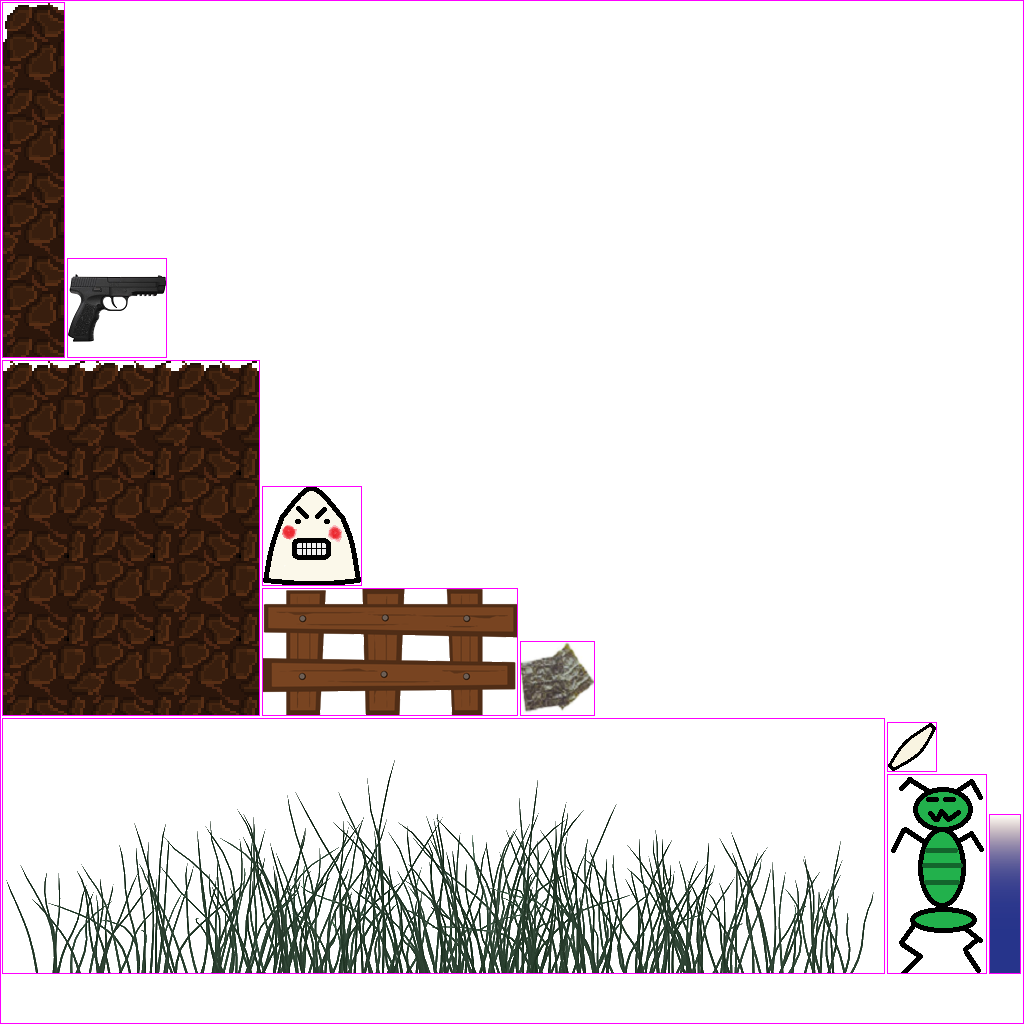
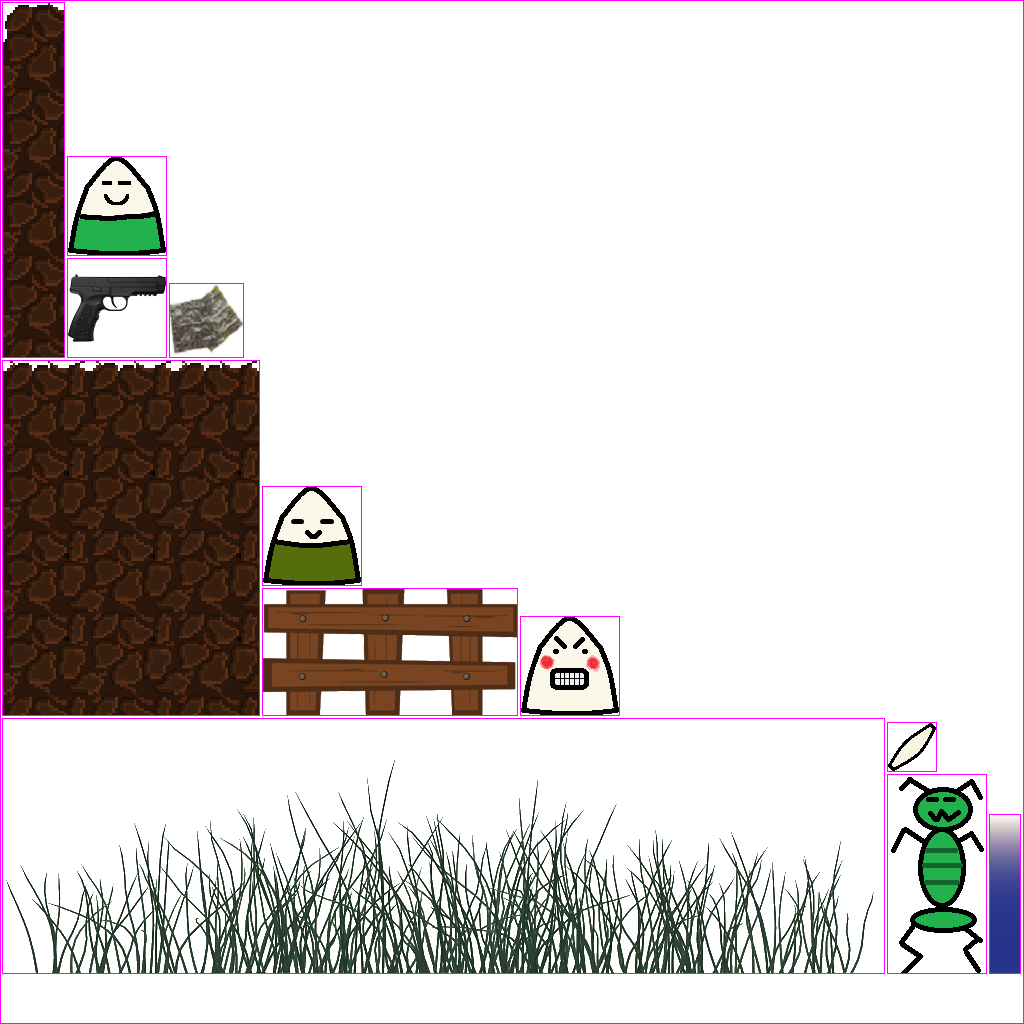
Added collection of guns, nori, grain on collision

diff --git a/core/src/com/packetpub/libgdx/rutter/game/WorldController.java b/core/src/com/packetpub/libgdx/rutter/game/WorldController.java
@@ -16,6 +16,9 @@ import com.packetpub.libgdx.rutter.game.objects.RiceGrain;
 import com.packetpub.libgdx.rutter.util.B2Listener;
 import com.packetpub.libgdx.rutter.util.CameraHelper;
 import com.packetpub.libgdx.rutter.util.Constants;
+
+import java.util.ArrayList;
+
 import com.badlogic.gdx.Application.ApplicationType;
 import com.badlogic.gdx.Gdx;
 import com.badlogic.gdx.Input.Keys;
@@ -53,6 +56,7 @@ public class WorldController extends InputAdapter implements Disposable
 	
 	public World b2world;
 	public B2Listener listener;
+	public ArrayList<Body> removeFlagged = new ArrayList<Body>();
 	
 	/**
 	 * Constructor for WorldController.
@@ -82,7 +86,6 @@ public class WorldController extends InputAdapter implements Disposable
 		score = 0;
 		level = new Level(Constants.LEVEL_01);
 		cameraHelper.setTarget(level.riceBall);
-		listener = new B2Listener(level);
 		initPhysics();
 	}
 	
@@ -132,6 +135,7 @@ public class WorldController extends InputAdapter implements Disposable
 			fixtureDef.density = 50;
 			fixtureDef.restitution = 0.5f;
 			body.createFixture(fixtureDef);
+			fixtureDef.isSensor = true;
 			body.setUserData(bug);
 			polygonShape.dispose();
 		}
@@ -150,6 +154,7 @@ public class WorldController extends InputAdapter implements Disposable
 			polygonShape.setAsBox(gun.dimension.x / 2.0f, gun.dimension.y / 2.0f, origin, 0);
 			FixtureDef fixtureDef = new FixtureDef();
 			fixtureDef.shape = polygonShape;
+			fixtureDef.isSensor = true;
 			body.createFixture(fixtureDef);
 			body.setUserData(gun);
 			polygonShape.dispose();
@@ -169,6 +174,7 @@ public class WorldController extends InputAdapter implements Disposable
 			polygonShape.setAsBox(nori.dimension.x / 2.0f, nori.dimension.y / 2.0f, origin, 0);
 			FixtureDef fixtureDef = new FixtureDef();
 			fixtureDef.shape = polygonShape;
+			fixtureDef.isSensor = true;
 			body.createFixture(fixtureDef);
 			body.setUserData(nori);
 			polygonShape.dispose();
@@ -188,6 +194,7 @@ public class WorldController extends InputAdapter implements Disposable
 			polygonShape.setAsBox(grain.dimension.x /2.0f, grain.dimension.y / 2.0f, origin, 0);
 			FixtureDef fixtureDef = new FixtureDef();
 			fixtureDef.shape = polygonShape;
+			fixtureDef.isSensor = true;
 			body.createFixture(fixtureDef);
 			body.setUserData(grain);
 			polygonShape.dispose();
@@ -213,6 +220,7 @@ public class WorldController extends InputAdapter implements Disposable
 		body.setUserData(ball);
 		polygonShape.dispose();
 		
+		listener = new B2Listener(level, this);
         b2world.setContactListener(listener);
 	}
 	
@@ -246,16 +254,16 @@ public class WorldController extends InputAdapter implements Disposable
 			// Player Movement
 			if (Gdx.input.isKeyPressed(Keys.LEFT))
 			{
-				level.riceBall.body.applyForceToCenter(-500, 0, true);
+				level.riceBall.body.applyForceToCenter(-300, 0, true);
 			}
 			else if (Gdx.input.isKeyPressed(Keys.RIGHT))
 			{
-				level.riceBall.body.applyForceToCenter(500, 0, true);
+				level.riceBall.body.applyForceToCenter(300, 0, true);
 			}
 			if (Gdx.input.isKeyJustPressed(Keys.SPACE) && !level.riceBall.isJumping)
 			{
 				level.riceBall.isJumping = true;
-				level.riceBall.body.applyForceToCenter(0, 3000, true);
+				level.riceBall.body.applyForceToCenter(0, 2000, true);
 			}
 		}
 	}
@@ -270,6 +278,11 @@ public class WorldController extends InputAdapter implements Disposable
 		handleInputGame(deltaTime);
 		level.update(deltaTime);
 		b2world.step(deltaTime, 8, 3);
+		while (!removeFlagged.isEmpty())
+		{
+			b2world.destroyBody(removeFlagged.get(0));
+			removeFlagged.remove(0);
+		}
 		cameraHelper.update(deltaTime);
 	}
 	

diff --git a/core/src/com/packetpub/libgdx/rutter/util/B2Listener.java b/core/src/com/packetpub/libgdx/rutter/util/B2Listener.java
@@ -6,6 +6,10 @@ import com.badlogic.gdx.physics.box2d.ContactListener;
 import com.badlogic.gdx.physics.box2d.Fixture;
 import com.badlogic.gdx.physics.box2d.Manifold;
 import com.packetpub.libgdx.rutter.game.Level;
+import com.packetpub.libgdx.rutter.game.WorldController;
+import com.packetpub.libgdx.rutter.game.objects.Gun;
+import com.packetpub.libgdx.rutter.game.objects.Nori;
+import com.packetpub.libgdx.rutter.game.objects.RiceGrain;
 
 /**
  * Contact Listener for the World.
@@ -16,14 +20,17 @@ import com.packetpub.libgdx.rutter.game.Level;
 public class B2Listener implements ContactListener
 {
 	private Level level;
+	private WorldController worldController;
 	
 	/**
-	 * Constructor for B2Listener. Needs level to get objects.
+	 * Constructor for B2Listener. Needs level to get objects, controller to modify score, destroy bodies.
 	 * @param level		The game's level.
+	 * @param worldController	The game's worldController.
 	 */
-	public B2Listener(Level level)
+	public B2Listener(Level level, WorldController worldController)
 	{
 		this.level = level;
+		this.worldController = worldController;
 	}
 	
 	@Override
@@ -31,20 +38,60 @@ public class B2Listener implements ContactListener
 	{
 		Fixture fixtureA = contact.getFixtureA();
 		Fixture fixtureB = contact.getFixtureB();
-		if (fixtureA.getBody().getUserData().toString() == "riceball");
+		System.out.println("Begin Contact: " + fixtureA.getBody().getUserData().toString() + " and " + fixtureB.getBody().getUserData().toString());
+		if (fixtureA.getBody().getUserData().toString() == "riceball" || fixtureB.getBody().getUserData().toString() == "riceball");
 		{
-			if (fixtureB.getBody().getUserData().toString() == "dirt");
+			//swap fixtureA and B so that riceball is in B, other object is in A.
+			if (fixtureA.getBody().getUserData().toString() == "riceball")
 			{
-				level.riceBall.isJumping = false;
+				fixtureB = contact.getFixtureA();
+				fixtureA = contact.getFixtureB();
 			}
-		}
-		if (fixtureB.getBody().getUserData().toString() == "riceball");
-		{
+			
 			if (fixtureA.getBody().getUserData().toString() == "dirt");
 			{
 				level.riceBall.isJumping = false;
 			}
+			if (fixtureA.getBody().getUserData().toString() == "ricegrain")
+			{
+				for (RiceGrain grain: level.ricegrains)
+				{
+					if (fixtureA.getBody().getUserData().equals(grain))
+					{
+						worldController.removeFlagged.add(fixtureA.getBody());
+						grain.collected = true;
+						worldController.score += grain.getScore();
+					}
+				}
+			}
+			if (fixtureA.getBody().getUserData().toString() == "nori")
+			{
+				for (Nori nori : level.nori)
+				{
+					if (fixtureA.getBody().getUserData().equals(nori))
+					{
+						worldController.removeFlagged.add(fixtureA.getBody());
+						nori.collected = true;
+						worldController.score += nori.getScore();
+						level.riceBall.changeHealth(1);
+					}
+				}
+			}
+			if (fixtureA.getBody().getUserData().toString() == "gun")
+			{
+				for (Gun gun : level.guns)
+				{
+					if (fixtureA.getBody().getUserData().equals(gun))
+					{
+						worldController.removeFlagged.add(fixtureA.getBody());
+						gun.collected = true;
+						worldController.score += gun.getScore();
+						level.riceBall.setGunPowerUp(gun.bullets);
+					}
+				}
+			}
 		}
+
 	}
 
 	@Override

diff --git a/core/src/com/packetpub/libgdx/rutter/game/objects/RiceBall.java b/core/src/com/packetpub/libgdx/rutter/game/objects/RiceBall.java
@@ -1,6 +1,7 @@
 package com.packetpub.libgdx.rutter.game.objects;
 
 import com.badlogic.gdx.Gdx;
+import com.badlogic.gdx.graphics.Texture;
 import com.badlogic.gdx.graphics.g2d.SpriteBatch;
 import com.badlogic.gdx.graphics.g2d.TextureRegion;
 import com.packetpub.libgdx.rutter.game.Assets;
@@ -26,6 +27,7 @@ public class RiceBall extends AbstractGameObject
 	}
 	
 	private TextureRegion regBall;
+	private TextureRegion regBallHappy;
 	
 	public VIEW_DIRECTION viewDirection;
 	public float timeJumping;
@@ -50,6 +52,7 @@ public class RiceBall extends AbstractGameObject
 	{
 		dimension.set(1,1);
 		regBall = Assets.instance.riceball.riceball;
+		regBallHappy = Assets.instance.riceball.riceballhappy;
 		//Center image on game object
 		origin.set(dimension.x /2 , dimension.y /2);
 //		//Bounding box for collision detection
@@ -193,8 +196,21 @@ public class RiceBall extends AbstractGameObject
 		TextureRegion reg = null;
 		
 		//Draw image
-		reg = regBall;
+		if (health == 2)
+		{
+			reg = regBallHappy;
+		}
+		else
+		{
+			reg = regBall;
+		}
 		batch.draw(reg.getTexture(),position.x, position.y, origin.x, origin.y, dimension.x, dimension.y, scale.x, scale.y, rotation,reg.getRegionX(), reg.getRegionY(), reg.getRegionWidth(), reg.getRegionHeight(), viewDirection == VIEW_DIRECTION.LEFT, false);
+		
+		if (bullets > 0)
+		{
+			reg = Assets.instance.gun.gun;
+			batch.draw(reg.getTexture(),position.x, position.y, origin.x, origin.y, dimension.x, dimension.y, scale.x, scale.y, rotation,reg.getRegionX(), reg.getRegionY(), reg.getRegionWidth(), reg.getRegionHeight(), false, false);
+		}
 	}
 	
 	/**

diff --git a/core/src/com/packetpub/libgdx/rutter/game/Assets.java b/core/src/com/packetpub/libgdx/rutter/game/Assets.java
@@ -167,6 +167,7 @@ public class Assets implements Disposable, AssetErrorListener
 	public class AssetRiceBall
 	{
 		public final AtlasRegion riceball;
+		public final AtlasRegion riceballhappy;
 
 		/**
 		 * Sets riceball to hold the reference to the correct region from atlas.
@@ -177,6 +178,15 @@ public class Assets implements Disposable, AssetErrorListener
 		public AssetRiceBall(TextureAtlas atlas)
 		{
 			riceball = atlas.findRegion("riceball");
+			if (riceball != null)
+			{
+				System.out.println("ball isnt null");
+			}
+			riceballhappy = atlas.findRegion("item_nori");
+			if (riceballhappy == null)
+			{
+				System.out.println("happy is null");
+			}
 		}
 	}
 	
